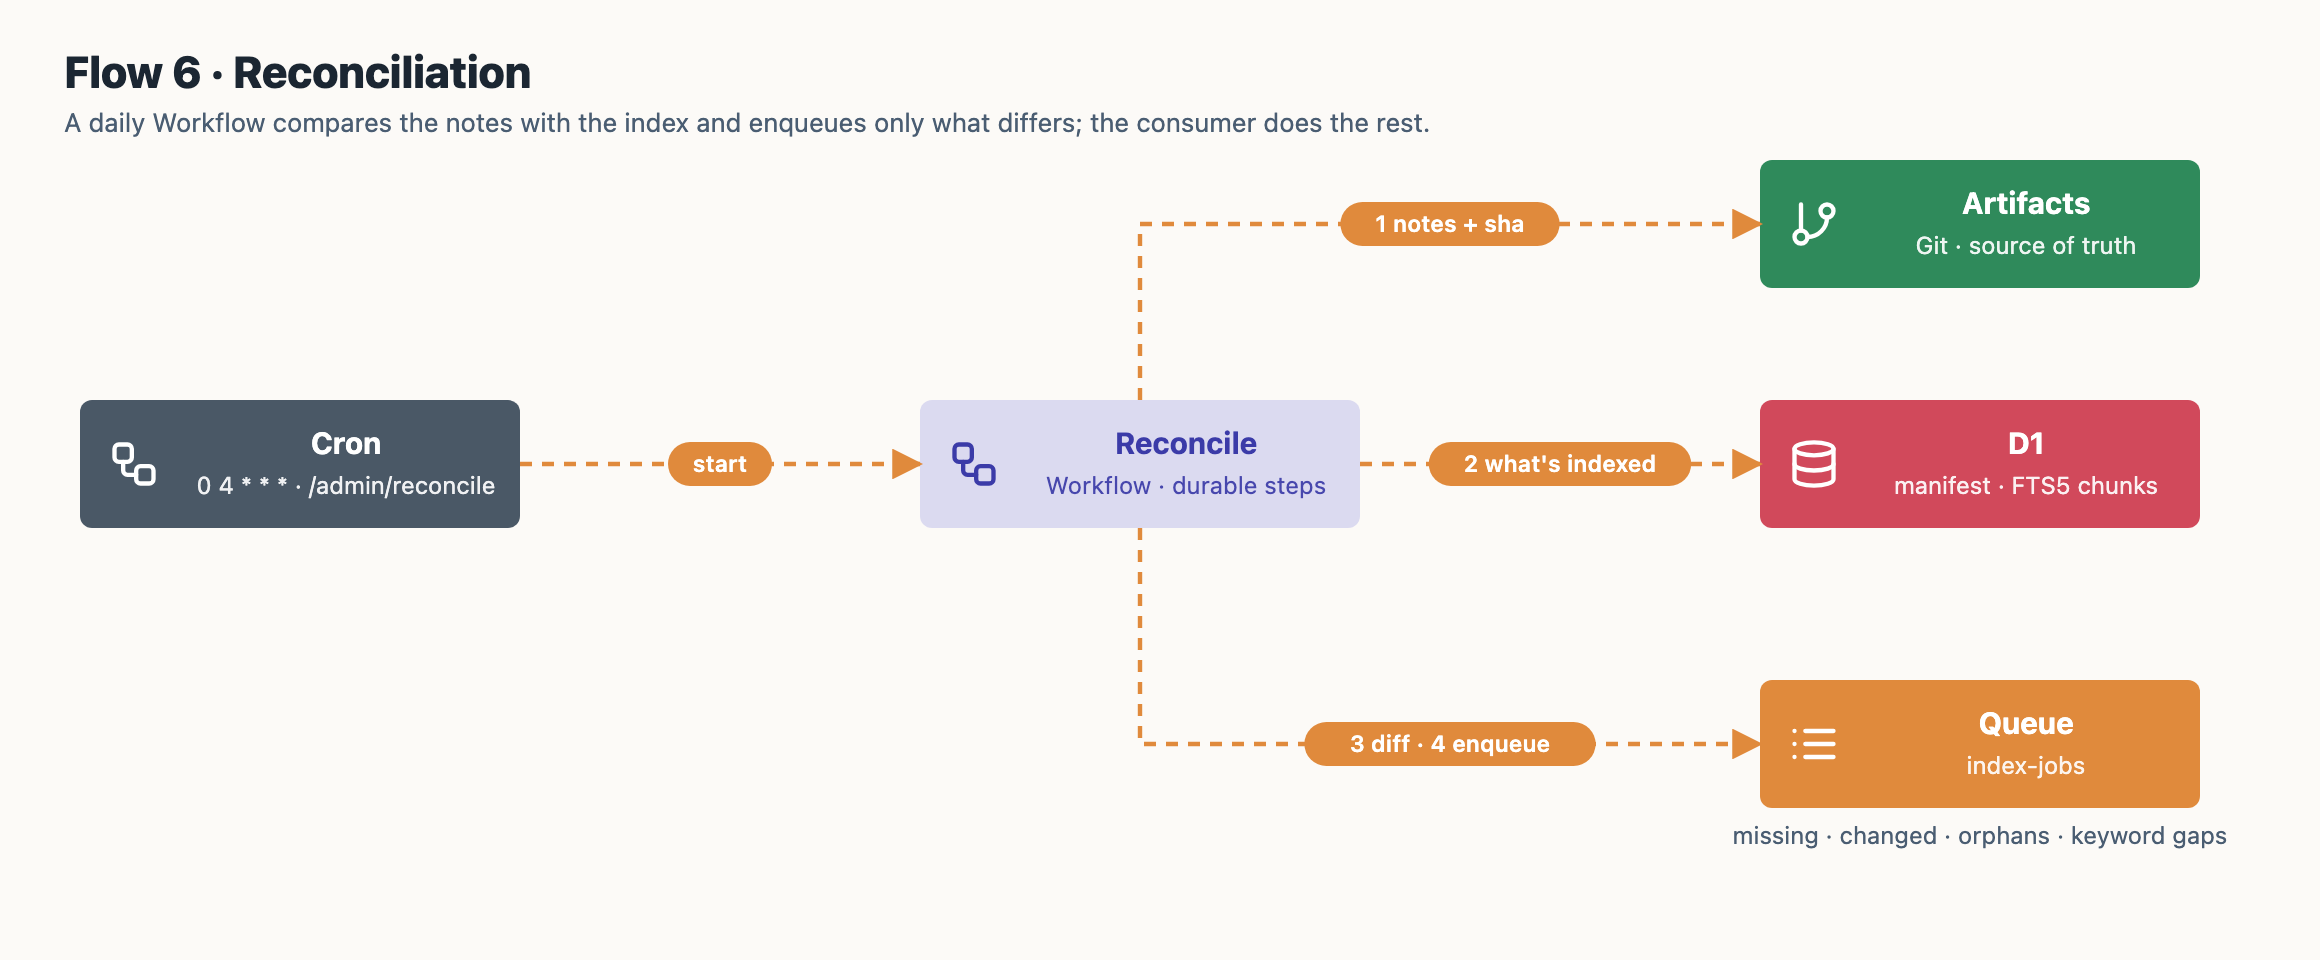
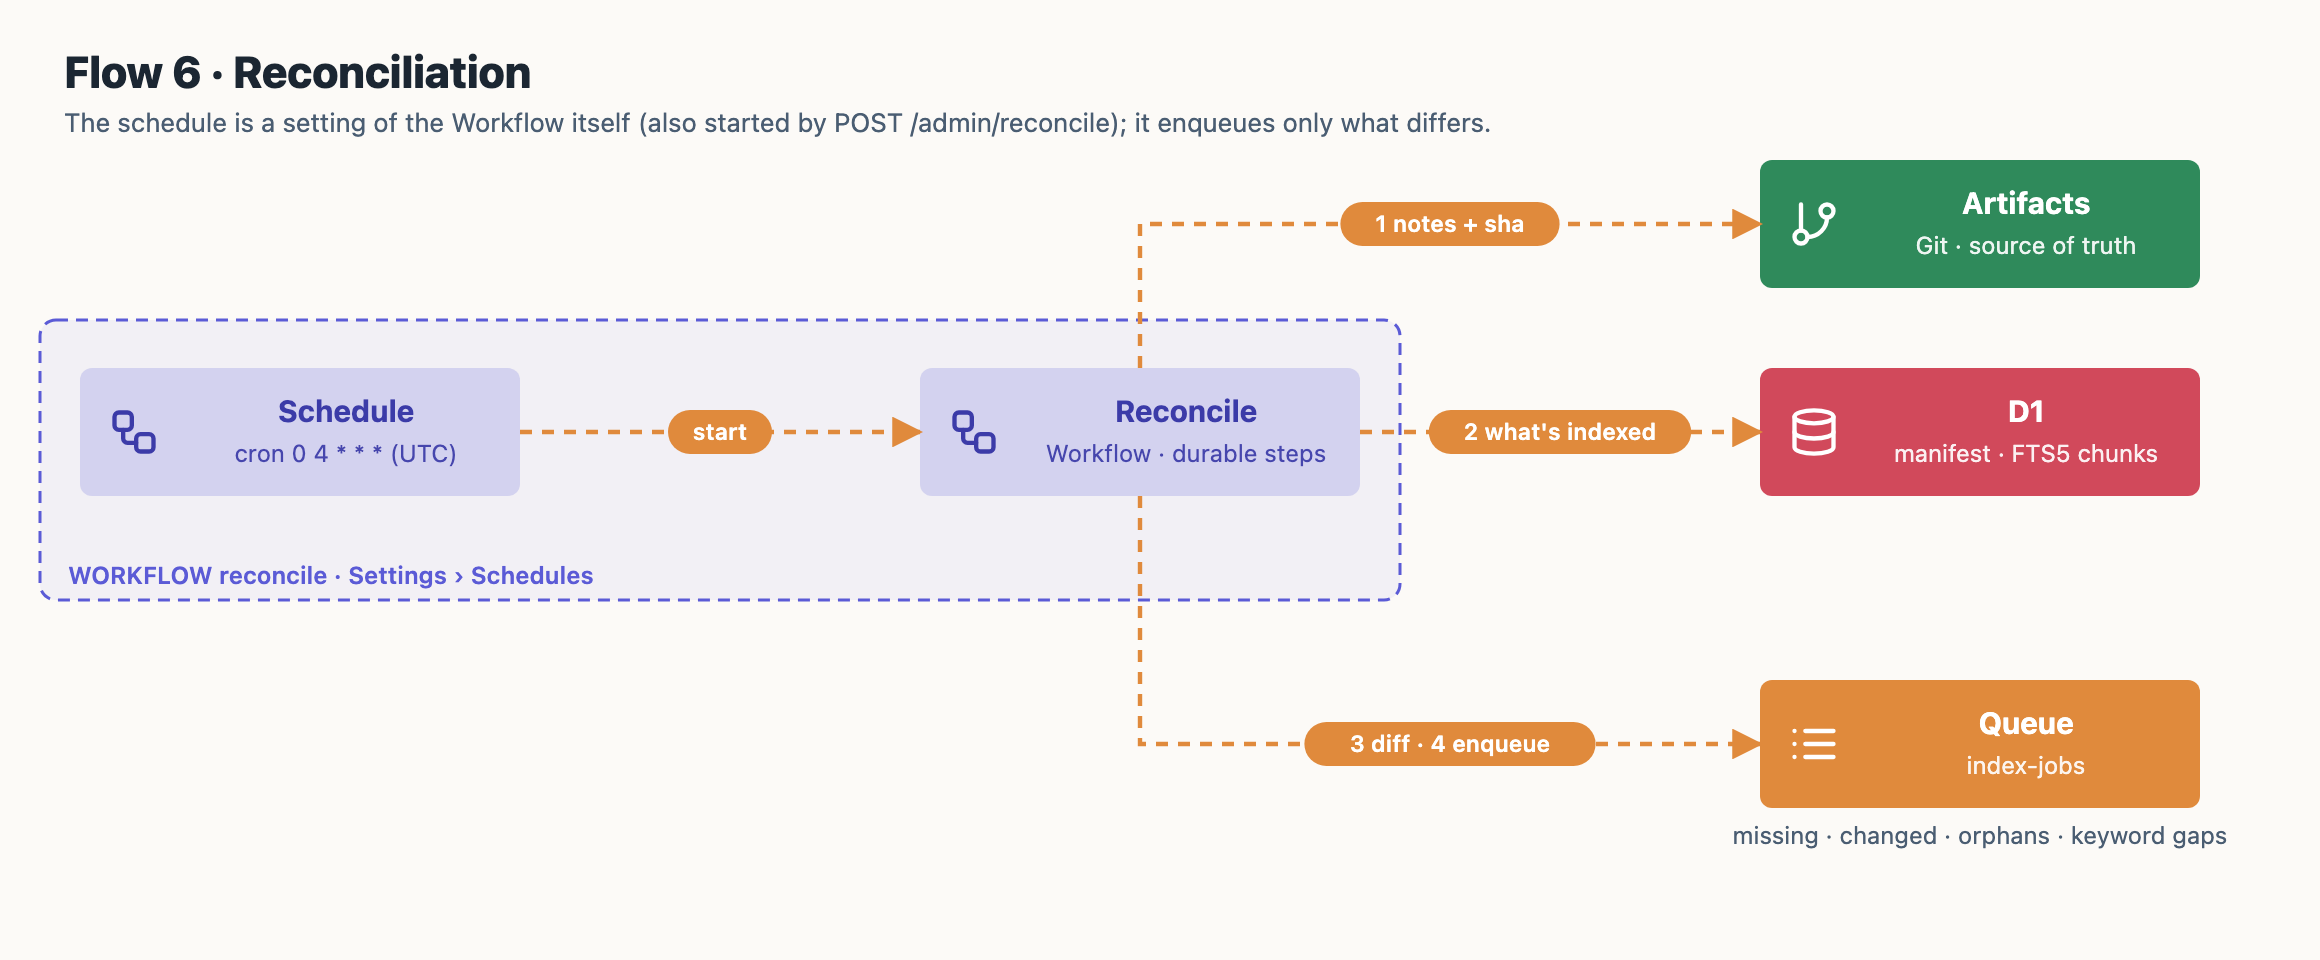
Architecture: the reconcile schedule is a setting of the Workflow
Claude-Session: https://claude.ai/code/session_0171UdtAm1pRxwuhTFhKDhrM

diff --git a/docs/architecture/draw_flows.py b/docs/architecture/draw_flows.py
@@ -66,16 +66,18 @@ save("3-index", 1640, 440, "Flow 3 · Index in the background", "Two producers i
 ])
 
 # 6. reconcile
-save("6-reconcile", 1160, 480, "Flow 6 · Reconciliation", "A daily Workflow compares the notes with the index and enqueues only what differs; the consumer does the rest.", [
-    box(40, 200, "Cron", "0 4 * * * · /admin/reconcile", "slate", icons=("workflow",)),
-    box(460, 200, "Reconcile", "Workflow · durable steps", "indigo", icons=("workflow",), kind="part"),
+save("6-reconcile", 1160, 480, "Flow 6 · Reconciliation", "The schedule is a setting of the Workflow itself (also started by POST /admin/reconcile); it enqueues only what differs.", [
+    '<rect x="20" y="160" width="680" height="140" rx="8" fill="#5B5BD6" fill-opacity="0.06" stroke="#5B5BD6" stroke-width="1.5" stroke-dasharray="6 4"/>'
+    '<text x="34" y="292" class="gl" style="fill:#5B5BD6">WORKFLOW reconcile · Settings › Schedules</text>',
+    box(40, 184, "Schedule", "cron 0 4 * * * (UTC)", "indigo", icons=("workflow",), kind="part"),
+    box(460, 184, "Reconcile", "Workflow · durable steps", "indigo", icons=("workflow",), kind="part"),
     box(880, 80, "Artifacts", "Git · source of truth", "green", icons=("branch",)),
-    box(880, 200, "D1", "manifest · FTS5 chunks", "red", icons=("database",)),
+    box(880, 184, "D1", "manifest · FTS5 chunks", "red", icons=("database",)),
     box(880, 340, "Queue", "index-jobs", "orange", "missing · changed · orphans · keyword gaps", icons=("queue",)),
-    arrow([(260, 232), (460, 232)], "start", flow="index"),
-    arrow([(570, 200), (570, 112), (880, 112)], "1 notes + sha", flow="index"),
-    arrow([(680, 232), (880, 232)], "2 what's indexed", flow="index"),
-    arrow([(570, 264), (570, 372), (880, 372)], "3 diff · 4 enqueue", flow="index"),
+    arrow([(260, 216), (460, 216)], "start", flow="index"),
+    arrow([(570, 184), (570, 112), (880, 112)], "1 notes + sha", flow="index"),
+    arrow([(680, 216), (880, 216)], "2 what's indexed", flow="index"),
+    arrow([(570, 248), (570, 372), (880, 372)], "3 diff · 4 enqueue", flow="index"),
 ])
 
 # 7. failure
